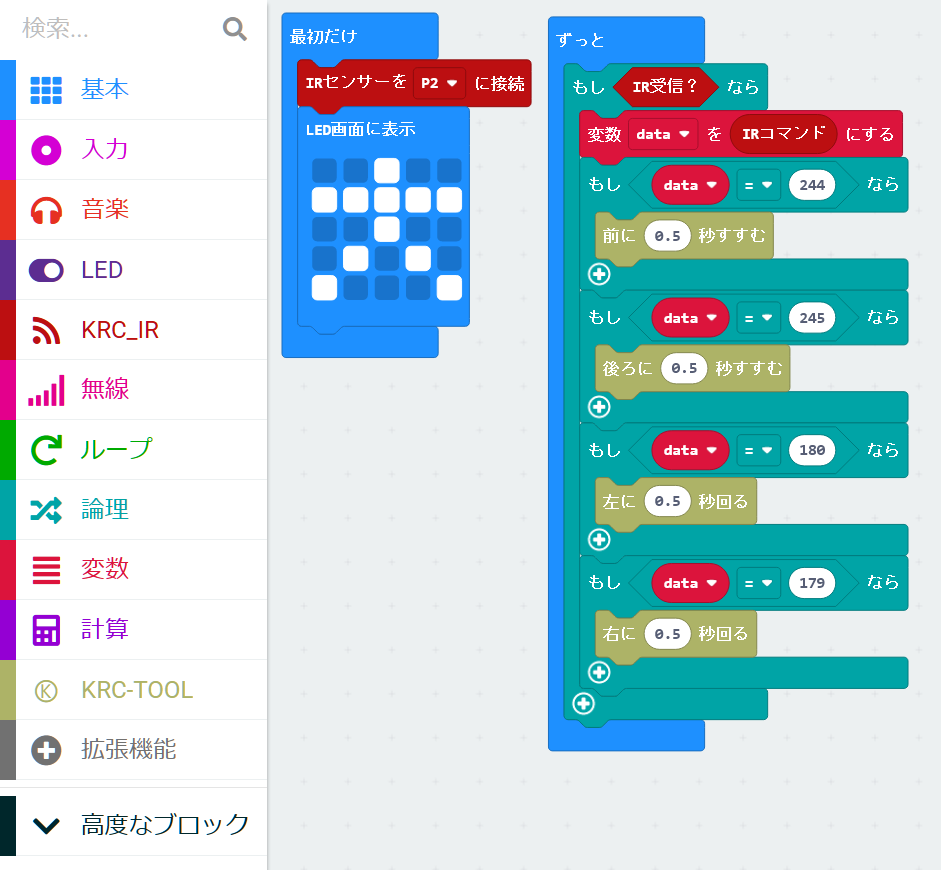
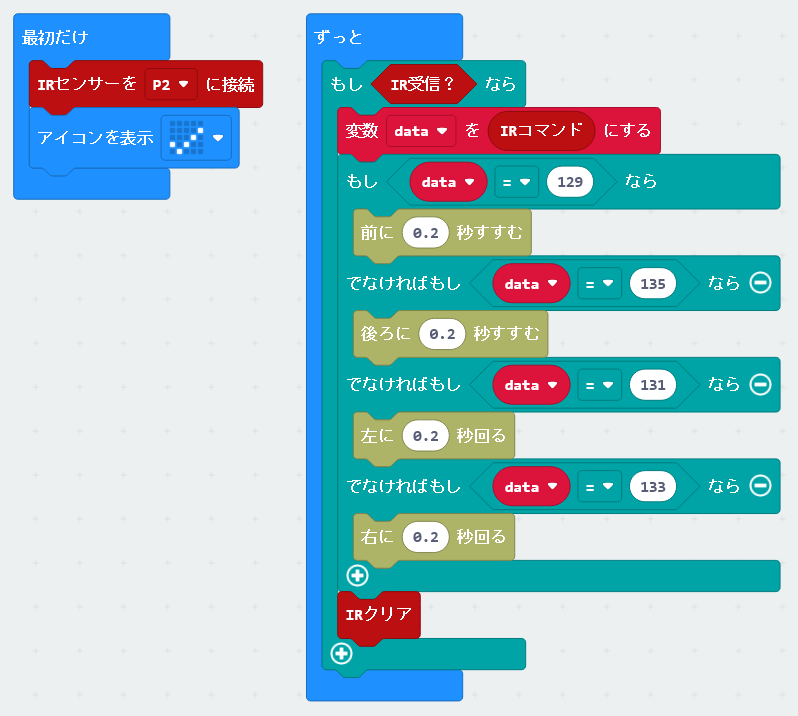
Ver3.0

diff --git a/ロボットリモコン.md b/ロボットリモコン.md
@@ -10,8 +10,8 @@
 ## プログラム
 
 <img src="ロボットリモコン.PNG" style="zoom:50%;" />
-・時間は0.2秒とかのほうが反応がいいかも<BR>
-・リモコンによっては、引掛かかる感じがするかも<BR>
+・すすむ時間は短いほうが反応がいい<BR>
+・最後の「IRクリア」がないと、モーターが動いている間に次のボタンを読むので長く押したようになってしまう<BR>
 
 ## ライセンス
 

diff --git a/README.md b/README.md
@@ -32,6 +32,8 @@
 
 <img src="sample_code.PNG" style="zoom:50%;" />
 
+ロボットを動かすプログラムは[こちら](ロボットリモコン.md)
+
 
 ------
 #### ３．プログラムの注意
